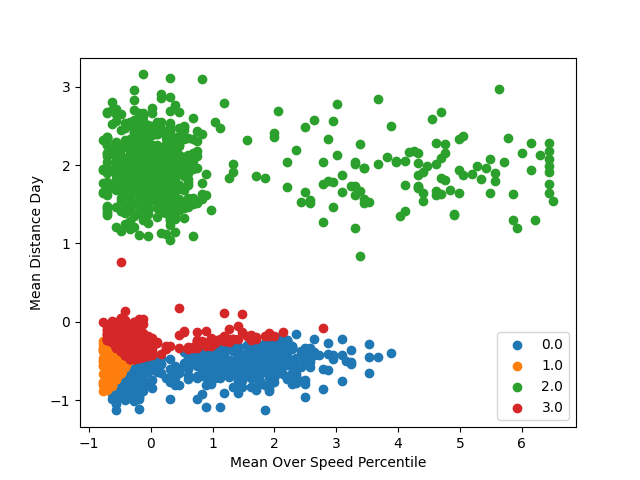
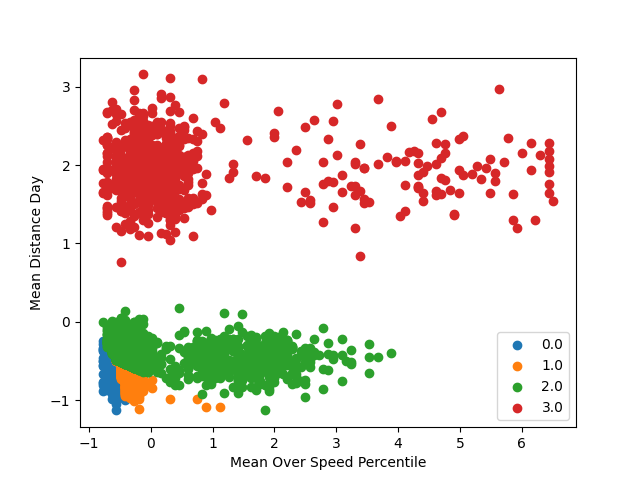
[Feature] Refactored native k-means

diff --git a/k_means_native.py b/k_means_native.py
@@ -1,5 +1,3 @@
-import math
-
 import numpy as np
 import matplotlib.pyplot as plt
 import pandas as pd
@@ -9,15 +7,50 @@ from kneed import KneeLocator
 
 
 class NativeKMeans:
+    """
+    A class to perform K-means clustering using native Python with sklearn and kneed libraries.
+
+    Attributes:
+        data (pd.DataFrame): Pre-processed data for clustering.
+        centroids (pd.DataFrame): DataFrame to store centroid coordinates.
+
+    Methods:
+        pre_process_data():
+            Reads and pre-processes data from 'driver-data.csv', scaling numeric features and dropping IDs.
+        find_optimal_centroids() -> int:
+            Finds the optimal number of centroids (k) using the elbow method with KneeLocator.
+        initialise_centroids(k: int):
+            Initializes centroids by randomly selecting k samples from pre-processed data.
+        squared_euclidian_distance(x1, x2, y1, y2) -> float:
+            Computes the squared Euclidean distance between two points (x1, y1) and (x2, y2).
+        train_kmeans_cluster(tolerance=1e-4, training_iterations=10):
+            Trains the K-means clustering algorithm with a specified tolerance and maximum iterations.
+        update_centroids(tolerance) -> bool:
+            Updates centroids based on assigned cluster data and checks for convergence.
+        plot_trained_data():
+            Plots the clustered data points after training.
+
+    Example usage:
+        kmeans = NativeKMeans()
+        optimal_k = kmeans.find_optimal_centroids()
+        kmeans.initialise_centroids(optimal_k)
+        kmeans.train_kmeans_cluster()
+    """
+
     def __init__(self):
+        """
+        Initializes NativeKMeans with pre-processed data and empty centroids DataFrame.
+        """
         self.data = self.pre_process_data()
         self.centroids = pd.DataFrame()
 
-        # mean_dist_day is y
-        # mean_over_speed_perc is x
+    def pre_process_data(self) -> pd.DataFrame:
+        """
+        Reads and pre-processes data from 'driver-data.csv'.
 
-    def pre_process_data(self):
-
+        Returns:
+            pd.DataFrame: Pre-processed DataFrame with scaled numeric features and dropped IDs.
+        """
         data = pd.read_csv('driver-data.csv')
         data.info()
         data.describe()
@@ -31,38 +64,71 @@ class NativeKMeans:
 
         return data
 
-    def find_optimal_centroids(self):
+    def find_optimal_centroids(self) -> int:
+        """
+        Finds the optimal number of centroids (k) using the elbow method with KneeLocator.
 
+        Returns:
+            int: Optimal number of centroids (k) for K-means clustering.
+        """
         inertia = []
+        max_clusters = 10  # Adjust based on your dataset and problem
 
-        for i in range(1, 5):
+        for i in range(1, max_clusters + 1):
             kmeans = KMeans(n_clusters=i)
             kmeans.fit(self.data[['mean_dist_day', 'mean_over_speed_perc']])
             inertia.append(kmeans.inertia_)
 
-        kneedle = KneeLocator(range(1, 5), inertia, curve='convex', direction='decreasing')
+        kneedle = KneeLocator(range(1, max_clusters + 1), inertia, curve='convex', direction='decreasing')
         optimal_k = kneedle.elbow
         return optimal_k
 
     def initialise_centroids(self, k: int):
-        # Select k unique random samples for initial centroids
+        """
+        Initializes centroids by randomly selecting k samples from pre-processed data.
+
+        Args:
+            k (int): Number of centroids to initialize.
+        """
         self.centroids = self.data[['mean_dist_day', 'mean_over_speed_perc']].sample(n=k)
         print(self.centroids)
 
-    def squared_euclidian_distance(self, x1, x2, y1, y2):
+    def squared_euclidian_distance(self, x1, x2, y1, y2) -> float:
+        """
+        Computes the squared Euclidean distance between two points (x1, y1) and (x2, y2).
+
+        Args:
+            x1 (float): x-coordinate of point 1.
+            x2 (float): x-coordinate of point 2.
+            y1 (float): y-coordinate of point 1.
+            y2 (float): y-coordinate of point 2.
+
+        Returns:
+            float: Squared Euclidean distance between (x1, y1) and (x2, y2).
+        """
         return np.sqrt((((x2 - x1) ** 2) + ((y2 - y1) ** 2)))
 
     def train_kmeans_cluster(self, tolerance=1e-4, training_iterations=10):
-        print('training...')
+        """
+        Trains the K-means clustering algorithm with a specified tolerance and maximum iterations.
+
+        Args:
+            tolerance (float): Convergence threshold for centroid updates.
+            training_iterations (int): Maximum number of training iterations.
+
+        """
+        print('Training...')
         iteration = 1
         self.data['labels'] = np.zeros(self.data.shape[0])
 
         while iteration <= training_iterations:
+            print('Iteration {}'.format(iteration))
 
-            for index, data in self.data.iterrows():
-                y2 = data['mean_dist_day']
-                x2 = data['mean_over_speed_perc']
+            for index, data_point in self.data.iterrows():
+                y2 = data_point['mean_dist_day']
+                x2 = data_point['mean_over_speed_perc']
                 temp_min = []
+
                 for centroid in self.centroids.values:
                     y1 = centroid[0]
                     x1 = centroid[1]
@@ -70,43 +136,58 @@ class NativeKMeans:
 
                 self.data.at[index, 'labels'] = temp_min.index(min(temp_min))
 
-            # Group by 'labels' and calculate mean for each feature
-            means = self.data.groupby('labels').mean()
-            # updates to the centroid
-            new_centroids = self.centroids.copy()
-
-            for i in range(len(self.centroids)):
-                cluster_data = self.data[self.data['labels'] == i]
-                if not cluster_data.empty:
-                    new_centroids.loc[i] = cluster_data[['mean_dist_day', 'mean_over_speed_perc']].mean()
-
-
-            # check for convergence
-            centroid_shift = np.linalg.norm(new_centroids - self.centroids)
-            if centroid_shift < tolerance:
-                print(f'Converged after {iteration+1} iterations.')
+            if self.update_centroids(tolerance):
                 break
 
             iteration += 1
 
+        self.plot_trained_data()
+
+    def update_centroids(self, tolerance) -> bool:
+        """
+        Updates centroids based on assigned cluster data and checks for convergence.
+
+        Args:
+            tolerance (float): Convergence threshold for centroid updates.
+
+        Returns:
+            bool: True if centroids have converged (within tolerance), False otherwise.
+        """
+        new_centroids = self.centroids.copy()
+
+        for i in range(len(self.centroids)):
+            cluster_data = self.data[self.data['labels'] == i]
+            if not cluster_data.empty:
+                new_centroids.loc[i] = cluster_data[['mean_dist_day', 'mean_over_speed_perc']].mean()
+
+        centroid_shift = np.linalg.norm(new_centroids - self.centroids)
+
+        if centroid_shift < tolerance:
+            return True
+
+        self.centroids = new_centroids
+        return False
+
+    def plot_trained_data(self):
+        """
+        Plots the clustered data points after training.
+        """
         for label in np.unique(self.data['labels']):
             subset = self.data[self.data['labels'] == label]
-            plt.scatter(subset['mean_over_speed_perc'], subset['mean_dist_day'], label=label)
+            plt.scatter(subset['mean_over_speed_perc'], subset['mean_dist_day'], label=f'Cluster {label}')
 
+        plt.scatter(self.centroids['mean_over_speed_perc'], self.centroids['mean_dist_day'], color='red', marker='x',
+                    label='Centroids')
         plt.legend()
         plt.xlabel('Mean Over Speed Percentile')
         plt.ylabel('Mean Distance Day')
-        plt.savefig('k_means_native_with_sklearn_trained_full.png')
+        plt.title('K-means Clustering')
+        plt.savefig('k_means_native_with_sklearn_trained.png')
+        plt.show()
 
 
 if __name__ == '__main__':
     kmeans = NativeKMeans()
     optimal_k = kmeans.find_optimal_centroids()
-    optimal_k = 4
     kmeans.initialise_centroids(optimal_k)
     kmeans.train_kmeans_cluster()
-    # print(kmeans.squared_euclidian_distance(3, 4, 2, 1))
-    #  x1, y1 and x2 and y2
-    # P(3,2) and Q(4, 1)
-    # √ (3-4)^2 + (2-1)^2
-    # √2 = 1.41
